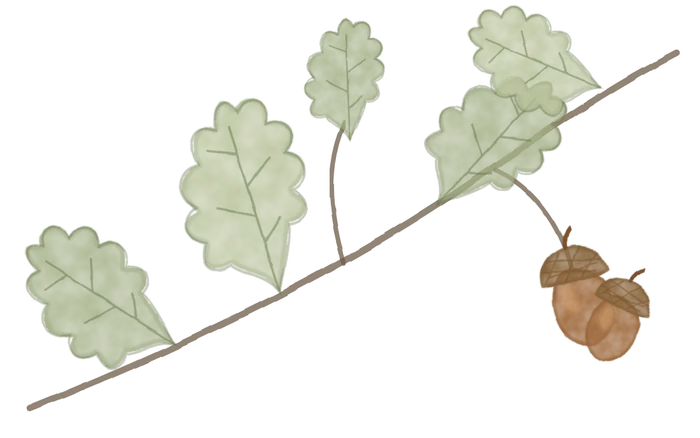
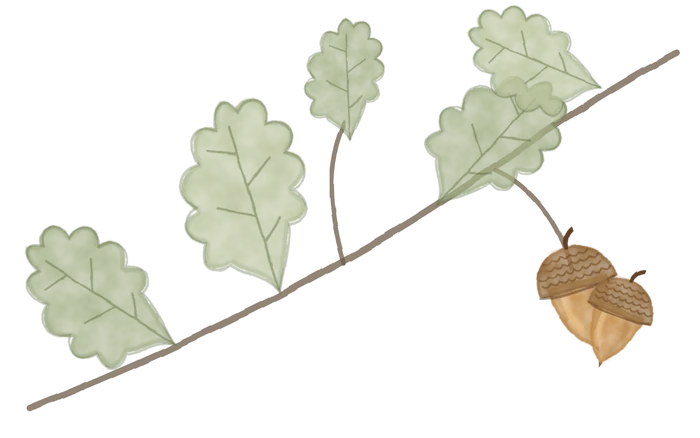
Client corrections: 4.99 EUR, author photo, new acorn, safety page
- Price 4.99 EUR (PRICE_CENTS default 499); tests and README updated
- Cover and letter page: author's photo in front of the oak wreath
- Website letter section shows the same photo over the wreath
- Redrawn acorn (book art, icons, logo, favicon)
- Book layout: crêpes on one page; "Prieš gaminant" safety page with sources
- Regenerated cover, page previews and og image

Claude-Session: https://claude.ai/code/session_01SejoyQn7LamZjRp1cFmsnZ

Changed region(s): [[0.75, 0.5046, 0.96, 0.8311]]

diff --git a/public/index.html b/public/index.html
@@ -86,7 +86,7 @@
 
     <!-- from the author -->
     <section class="section letter">
-      <img class="letter__art" src="/img/oakSprig.webp" alt="" width="700" height="438" loading="lazy">
+      <div class="letter__photo"><img class="letter__wreath" src="/img/wreath.webp" alt="" width="900" height="900" loading="lazy"><img class="letter__family" src="/img/family.webp" alt="„Giliuko meniu“ kūrėja su sūnumi Ąžuoliuku" width="700" height="764" loading="lazy"></div>
       <h2>Mielos mamos,</h2>
       <p>Šie receptai gimė ne iš profesionalios virtuvės knygų, o iš kasdienio gyvenimo – gaminant savo pirmagimiam Ąžuoliukui nuo pat primaitinimo pradžios ir dabar, laukiant antrojo stebuklo.</p>
       <p>Mums nereikia gaminti atskirai – galime sukurti vieną puikų, maistingą patiekalą visai šeimai, pritaikant jį ir pačių mažiausių skoniui.</p>

diff --git a/server.js b/server.js
@@ -14,7 +14,7 @@ const env = process.env
 const PORT = Number(env.PORT || 3000)
 const DATA_DIR = env.DATA_DIR || join(ROOT, 'data')
 const BASE_URL = (env.BASE_URL || `http://localhost:${PORT}`).replace(/\/$/, '')
-const PRICE_CENTS = Number(env.PRICE_CENTS || 999)
+const PRICE_CENTS = Number(env.PRICE_CENTS || 499)
 // The PDF is not in the (public) repo: it's uploaded once on /admin and kept on the persistent volume.
 const PRODUCT = { key: 'giliuko-meniu-lt', name: 'Giliuko meniu – receptų knygelė (PDF)', file: join(DATA_DIR, 'products', 'giliuko-meniu-lt.pdf'), download: 'Giliuko-meniu.pdf' }
 const productInfo = () => stat(PRODUCT.file).catch(() => null)

diff --git a/public/css/site.css b/public/css/site.css
@@ -95,7 +95,9 @@ p { margin: 0 0 .8em }
 .letter h2 { font-style: italic; margin-bottom: 20px }
 .letter p { font: 500 21px/1.55 var(--serif); color: var(--ink) }
 .letter__sign { font-style: italic; color: var(--olive) !important; margin-top: 18px }
-.letter__art { width: 230px; margin: 0 auto 10px }
+.letter__photo { position: relative; width: min(340px, 82vw); aspect-ratio: 1; margin: 0 auto 18px }
+.letter__wreath { position: absolute; inset: 0; width: 100%; height: 100%; opacity: .9 }
+.letter__family { position: absolute; left: 50%; top: 8%; width: 80%; transform: translateX(-50%) }
 
 /* buy */
 .buy { max-width: 920px }

diff --git a/README.md b/README.md
@@ -1,6 +1,6 @@
 # Giliuko meniu – shop
 
-One-page shop for the **Giliuko meniu** PDF (24 family recipes, Lithuanian): landing page → Stripe Checkout (one-time, 9.99 EUR) → download page + email with a personal link.
+One-page shop for the **Giliuko meniu** PDF (24 family recipes, Lithuanian): landing page → Stripe Checkout (one-time, 4.99 EUR) → download page + email with a personal link.
 
 - `server.js`: landing page, `POST /api/checkout`, Stripe webhook, thank-you page `/aciu`, downloads `/parsisiusti/<token>`, "resend my link", `/admin`
 - `lib/stripe.js`: Stripe over plain REST (no SDK) + webhook signature check
@@ -43,7 +43,7 @@ To rebuild the PDF after editing recipes: put the content file at `book/content/
 | `BASE_URL` | `https://giliukomeniu.lt` | Used in Stripe return links and emails |
 | `STRIPE_SECRET_KEY` | `sk_live_…` | Secret – Coolify only |
 | `STRIPE_WEBHOOK_SECRET` | `whsec_…` | Secret – Coolify only |
-| `PRICE_CENTS` | `999` | Price shown and charged (default 999) |
+| `PRICE_CENTS` | `499` | Price shown and charged (default 499 = 4.99 EUR) |
 | `STRIPE_PRICE_ID` | `price_…` | Optional: use a Stripe Price instead of `PRICE_CENTS` |
 | `STRIPE_INVOICES` | `true` | Optional: Stripe creates an invoice PDF per purchase (Stripe charges a small fee) |
 | `ADMIN_PASSWORD` | long random | `/admin` (any username) |
